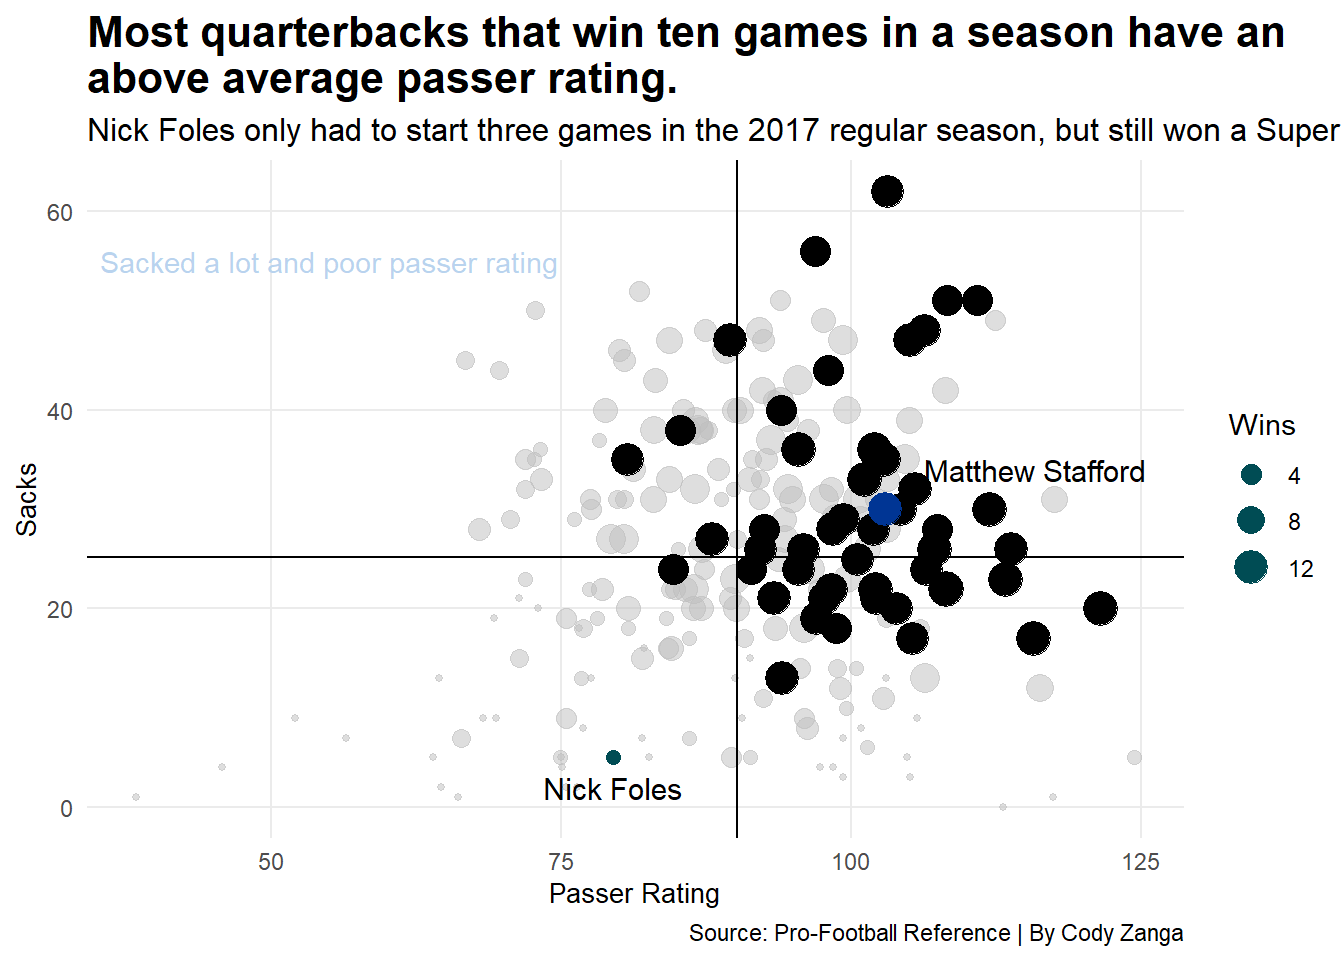
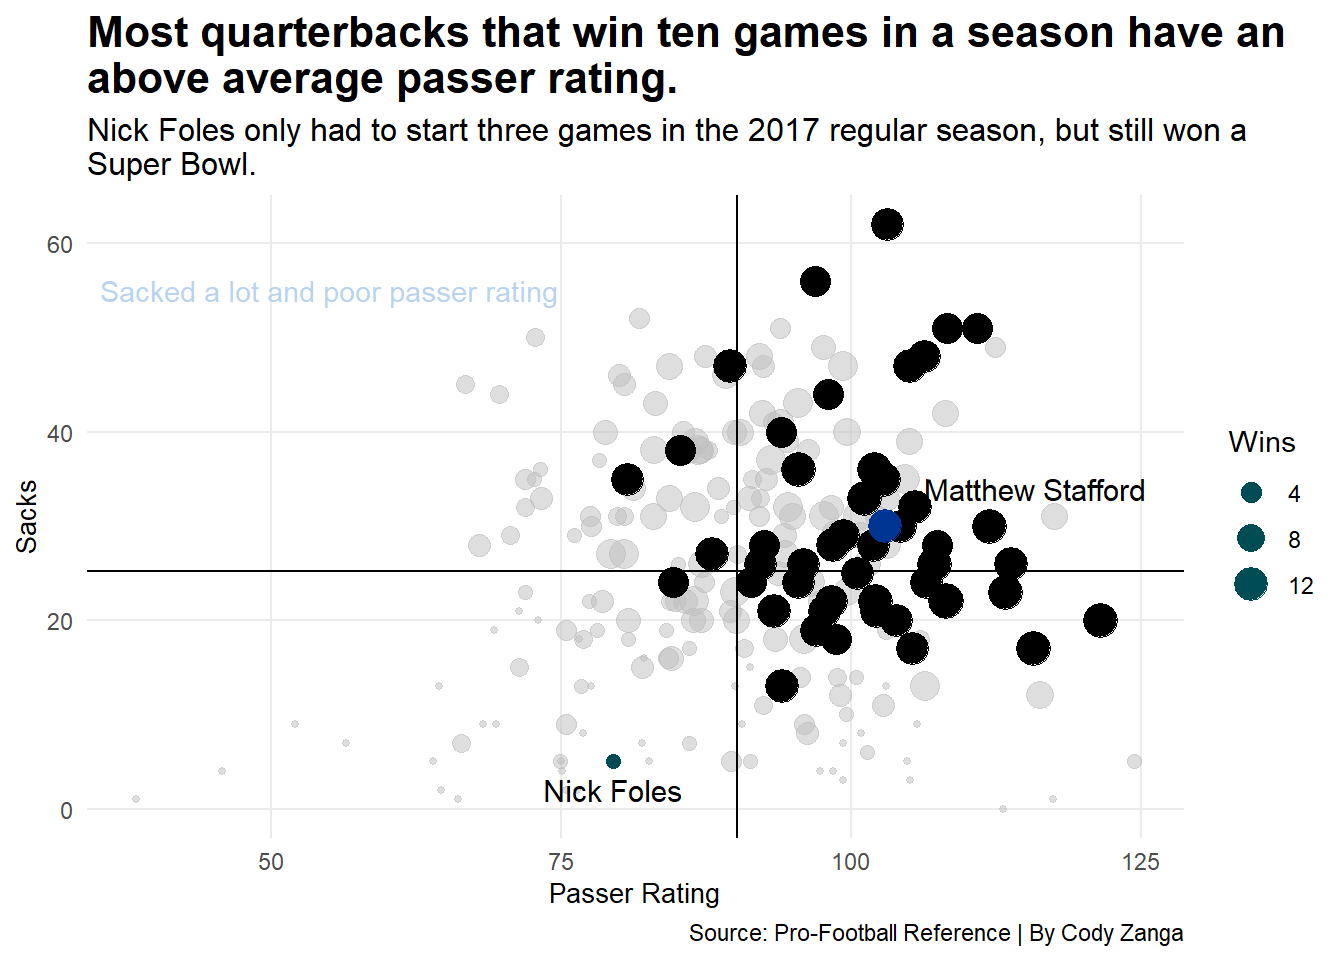
Small Fixes
Fixed problem with text in graphs.

diff --git a/2022/04/30/passer-rating-and-wins/index.html b/2022/04/30/passer-rating-and-wins/index.html
@@ -78,12 +78,12 @@
 <p><img src="http://codyzanga.github.io/2022/04/30/passer-rating-and-wins/index_files/figure-html/unnamed-chunk-10-1.png" width="672" /></p>
 <p>We can see that sacks don’t have as much as influence as you might think on if a quarterback is able to lead his team to at least 10 wins. Matthew Stafford led his team to a Super Bowl victory last season with an above average passer rating while also being sacked more than the average QB.</p>
 <p>There’s also only been 4 or 5 instances that a QB has had a below average passer rating and still achieved 10 victories, but that seems like a rare feat given that it’s only happened a handful of times over the last five years.</p>
-<div id="mdfpzzbtms" style="overflow-x:auto;overflow-y:auto;width:auto;height:auto;">
+<div id="wmohcjxmje" style="overflow-x:auto;overflow-y:auto;width:auto;height:auto;">
 <style>html {
   font-family: -apple-system, BlinkMacSystemFont, 'Segoe UI', Roboto, Oxygen, Ubuntu, Cantarell, 'Helvetica Neue', 'Fira Sans', 'Droid Sans', Arial, sans-serif;
 }
 
-#mdfpzzbtms .gt_table {
+#wmohcjxmje .gt_table {
   display: table;
   border-collapse: collapse;
   margin-left: auto;
@@ -108,7 +108,7 @@
   border-left-color: #D3D3D3;
 }
 
-#mdfpzzbtms .gt_heading {
+#wmohcjxmje .gt_heading {
   background-color: #FFFFFF;
   text-align: center;
   border-bottom-color: #FFFFFF;
@@ -120,7 +120,7 @@
   border-right-color: #D3D3D3;
 }
 
-#mdfpzzbtms .gt_title {
+#wmohcjxmje .gt_title {
   color: #333333;
   font-size: 125%;
   font-weight: initial;
@@ -132,7 +132,7 @@
   border-bottom-width: 0;
 }
 
-#mdfpzzbtms .gt_subtitle {
+#wmohcjxmje .gt_subtitle {
   color: #333333;
   font-size: 85%;
   font-weight: initial;
@@ -144,13 +144,13 @@
   border-top-width: 0;
 }
 
-#mdfpzzbtms .gt_bottom_border {
+#wmohcjxmje .gt_bottom_border {
   border-bottom-style: none;
   border-bottom-width: 2px;
   border-bottom-color: #D3D3D3;
 }
 
-#mdfpzzbtms .gt_col_headings {
+#wmohcjxmje .gt_col_headings {
   border-top-style: none;
   border-top-width: 2px;
   border-top-color: #D3D3D3;
@@ -165,7 +165,7 @@
   border-right-color: #D3D3D3;
 }
 
-#mdfpzzbtms .gt_col_heading {
+#wmohcjxmje .gt_col_heading {
   color: #333333;
   background-color: #FFFFFF;
   font-size: 100%;
@@ -185,7 +185,7 @@
   overflow-x: hidden;
 }
 
-#mdfpzzbtms .gt_column_spanner_outer {
+#wmohcjxmje .gt_column_spanner_outer {
   color: #333333;
   background-color: #FFFFFF;
   font-size: 100%;
@@ -197,15 +197,15 @@
   padding-right: 4px;
 }
 
-#mdfpzzbtms .gt_column_spanner_outer:first-child {
+#wmohcjxmje .gt_column_spanner_outer:first-child {
   padding-left: 0;
 }
 
-#mdfpzzbtms .gt_column_spanner_outer:last-child {
+#wmohcjxmje .gt_column_spanner_outer:last-child {
   padding-right: 0;
 }
 
-#mdfpzzbtms .gt_column_spanner {
+#wmohcjxmje .gt_column_spanner {
   border-bottom-style: none;
   border-bottom-width: 2px;
   border-bottom-color: #D3D3D3;
@@ -217,7 +217,7 @@
   width: 100%;
 }
 
-#mdfpzzbtms .gt_group_heading {
+#wmohcjxmje .gt_group_heading {
   padding-top: 8px;
   padding-bottom: 8px;
   padding-left: 5px;
@@ -242,7 +242,7 @@
   vertical-align: middle;
 }
 
-#mdfpzzbtms .gt_empty_group_heading {
+#wmohcjxmje .gt_empty_group_heading {
   padding: 0.5px;
   color: #333333;
   background-color: #FFFFFF;
@@ -257,15 +257,15 @@
   vertical-align: middle;
 }
 
-#mdfpzzbtms .gt_from_md > :first-child {
+#wmohcjxmje .gt_from_md > :first-child {
   margin-top: 0;
 }
 
-#mdfpzzbtms .gt_from_md > :last-child {
+#wmohcjxmje .gt_from_md > :last-child {
   margin-bottom: 0;
 }
 
-#mdfpzzbtms .gt_row {
+#wmohcjxmje .gt_row {
   padding-top: 8px;
   padding-bottom: 8px;
   padding-left: 5px;
@@ -284,7 +284,7 @@
   overflow-x: hidden;
 }
 
-#mdfpzzbtms .gt_stub {
+#wmohcjxmje .gt_stub {
   color: #333333;
   background-color: #FFFFFF;
   font-size: 100%;
@@ -297,7 +297,7 @@
   padding-right: 5px;
 }
 
-#mdfpzzbtms .gt_stub_row_group {
+#wmohcjxmje .gt_stub_row_group {
   color: #333333;
   background-color: #FFFFFF;
   font-size: 100%;
@@ -311,11 +311,11 @@
   vertical-align: top;
 }
 
-#mdfpzzbtms .gt_row_group_first td {
+#wmohcjxmje .gt_row_group_first td {
   border-top-width: 2px;
 }
 
-#mdfpzzbtms .gt_summary_row {
+#wmohcjxmje .gt_summary_row {
   color: #333333;
   background-color: #FFFFFF;
   text-transform: inherit;
@@ -325,16 +325,16 @@
   padding-right: 5px;
 }
 
-#mdfpzzbtms .gt_first_summary_row {
+#wmohcjxmje .gt_first_summary_row {
   border-top-style: none;
   border-top-color: #D3D3D3;
 }
 
-#mdfpzzbtms .gt_first_summary_row.thick {
+#wmohcjxmje .gt_first_summary_row.thick {
   border-top-width: 2px;
 }
 
-#mdfpzzbtms .gt_last_summary_row {
+#wmohcjxmje .gt_last_summary_row {
   padding-top: 8px;
   padding-bottom: 8px;
   padding-left: 5px;
@@ -344,7 +344,7 @@
   border-bottom-color: #D3D3D3;
 }
 
-#mdfpzzbtms .gt_grand_summary_row {
+#wmohcjxmje .gt_grand_summary_row {
   color: #333333;
   background-color: #FFFFFF;
   text-transform: inherit;
@@ -354,7 +354,7 @@
   padding-right: 5px;
 }
 
-#mdfpzzbtms .gt_first_grand_summary_row {
+#wmohcjxmje .gt_first_grand_summary_row {
   padding-top: 8px;
   padding-bottom: 8px;
   padding-left: 5px;
@@ -364,11 +364,11 @@
   border-top-color: #D3D3D3;
 }
 
-#mdfpzzbtms .gt_striped {
+#wmohcjxmje .gt_striped {
   background-color: rgba(128, 128, 128, 0.05);
 }
 
-#mdfpzzbtms .gt_table_body {
+#wmohcjxmje .gt_table_body {
   border-top-style: none;
   border-top-width: 2px;
   border-top-color: #D3D3D3;
@@ -377,7 +377,7 @@
   border-bottom-color: #D3D3D3;
 }
 
-#mdfpzzbtms .gt_footnotes {
+#wmohcjxmje .gt_footnotes {
   color: #333333;
   background-color: #FFFFFF;
   border-bottom-style: none;
@@ -391,7 +391,7 @@
   border-right-color: #D3D3D3;
 }
 
-#mdfpzzbtms .gt_footnote {
+#wmohcjxmje .gt_footnote {
   margin: 0px;
   font-size: 90%;
   padding-left: 4px;
@@ -400,7 +400,7 @@
   padding-right: 5px;
 }
 
-#mdfpzzbtms .gt_sourcenotes {
+#wmohcjxmje .gt_sourcenotes {
   color: #333333;
   background-color: #FFFFFF;
   border-bottom-style: none;
@@ -414,7 +414,7 @@
   border-right-color: #D3D3D3;
 }
 
-#mdfpzzbtms .gt_sourcenote {
+#wmohcjxmje .gt_sourcenote {
   font-size: 90%;
   padding-top: 4px;
   padding-bottom: 4px;
@@ -422,60 +422,60 @@
   padding-right: 5px;
 }
 
-#mdfpzzbtms .gt_left {
+#wmohcjxmje .gt_left {
   text-align: left;
 }
 
-#mdfpzzbtms .gt_center {
+#wmohcjxmje .gt_center {
   text-align: center;
 }
 
-#mdfpzzbtms .gt_right {
+#wmohcjxmje .gt_right {
   text-align: right;
   font-variant-numeric: tabular-nums;
 }
 
-#mdfpzzbtms .gt_font_normal {
+#wmohcjxmje .gt_font_normal {
   font-weight: normal;
 }
 
-#mdfpzzbtms .gt_font_bold {
+#wmohcjxmje .gt_font_bold {
   font-weight: bold;
 }
 
-#mdfpzzbtms .gt_font_italic {
+#wmohcjxmje .gt_font_italic {
   font-style: italic;
 }
 
-#mdfpzzbtms .gt_super {
+#wmohcjxmje .gt_super {
   font-size: 65%;
 }
 
-#mdfpzzbtms .gt_footnote_marks {
+#wmohcjxmje .gt_footnote_marks {
   font-style: italic;
   font-weight: normal;
   font-size: 75%;
   vertical-align: 0.4em;
 }
 
-#mdfpzzbtms .gt_asterisk {
+#wmohcjxmje .gt_asterisk {
   font-size: 100%;
   vertical-align: 0;
 }
 
-#mdfpzzbtms .gt_slash_mark {
+#wmohcjxmje .gt_slash_mark {
   font-size: 0.7em;
   line-height: 0.7em;
   vertical-align: 0.15em;
 }
 
-#mdfpzzbtms .gt_fraction_numerator {
+#wmohcjxmje .gt_fraction_numerator {
   font-size: 0.6em;
   line-height: 0.6em;
   vertical-align: 0.45em;
 }
 
-#mdfpzzbtms .gt_fraction_denominator {
+#wmohcjxmje .gt_fraction_denominator {
   font-size: 0.6em;
   line-height: 0.6em;
   vertical-align: -0.05em;
